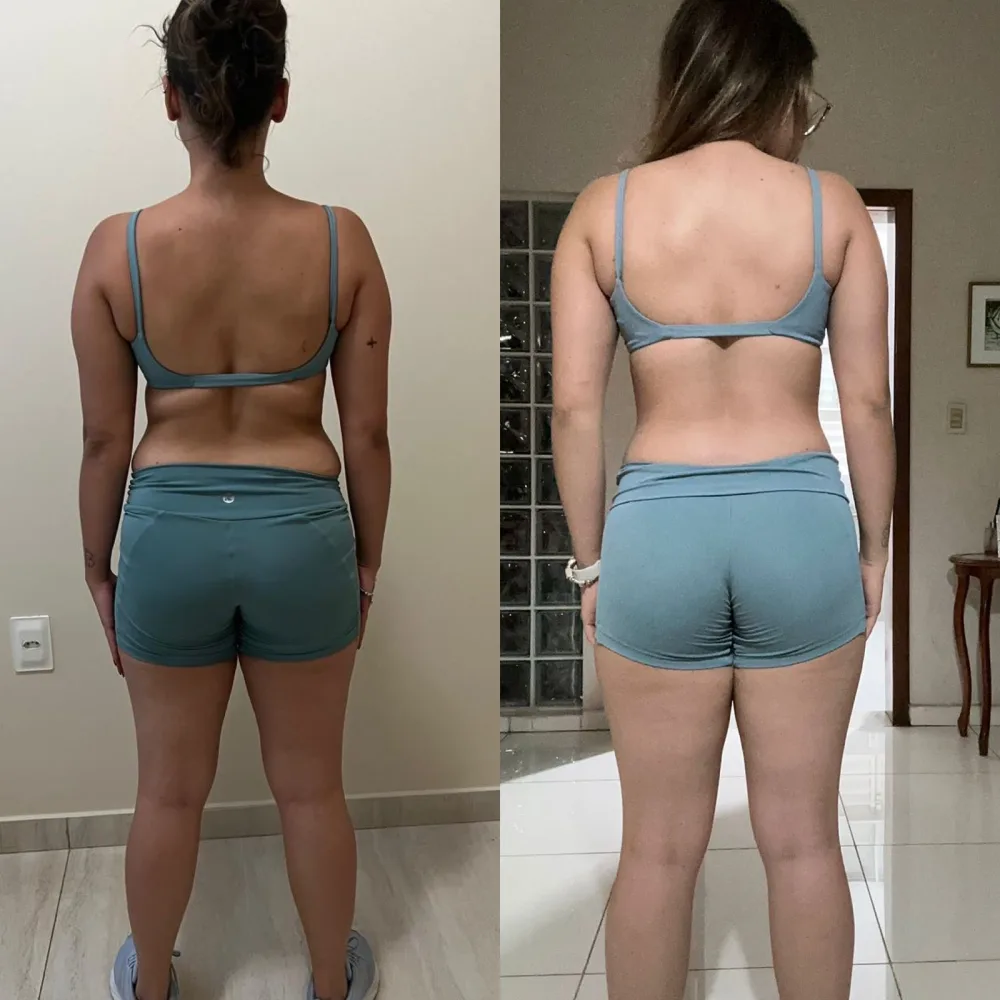
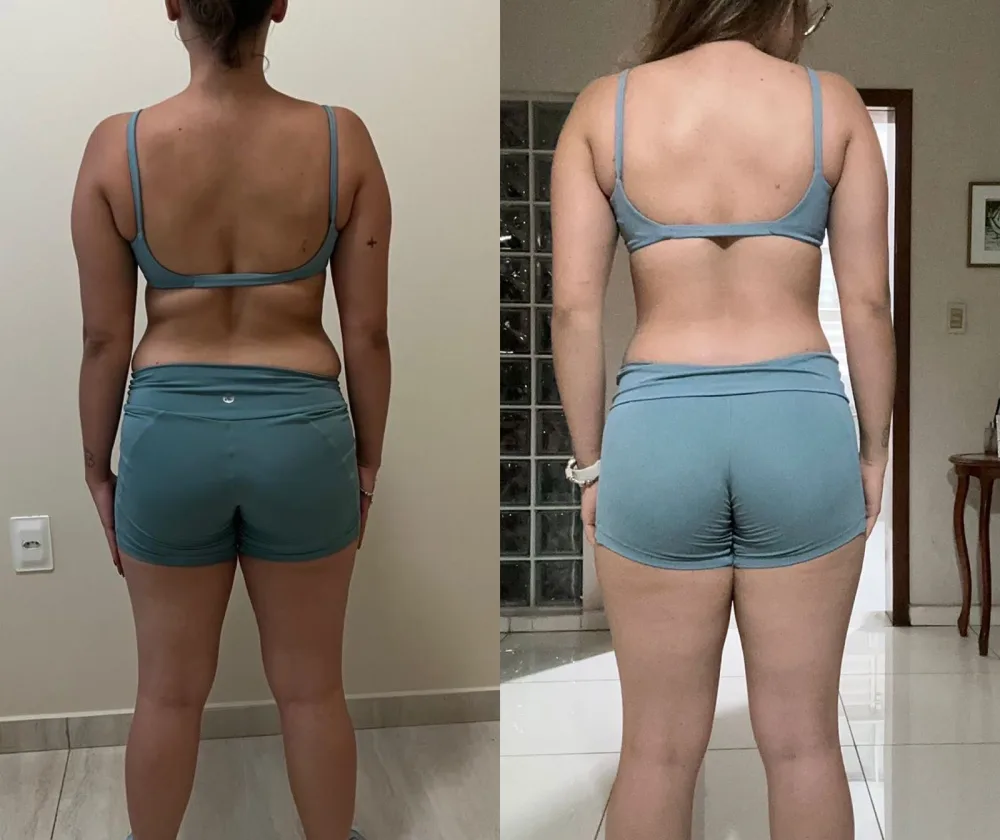
fix(prova): reenquadre das fotos, corpo legível e foto de frente do GL
Três observações do GL na primeira leitura da página.

FOTOS DESALINHADAS: os cards estavam geometricamente alinhados (medido:
mesma altura, mesma posição). O que não batia eram os CORPOS dentro dos
quadros — na foto da Maria eles preenchem a moldura, na outra sobrava
chão e parede, então as pessoas apareciam em escalas diferentes.
Reenquadrei as três fotos da mesma aluna cortando o excesso.

TIPOGRAFIA ILEGÍVEL: a história estava em C.textSub (#A0A0A0), que é o
token de RÓTULO. História de aluna é corpo de leitura, e a regra do
próprio GL SYSTEM diz 'cinza só em rótulo'. Criado o token textRead
(#DADADA) e o corpo subiu de 16 para 17px com entrelinha maior.

FOTO DE VERDE: trocada pela de frente, com olhar na câmera, na seção
'como funciona'.

diff --git a/src/PaginaComercial.jsx b/src/PaginaComercial.jsx
@@ -263,7 +263,12 @@ function Prova({ onComecar }) {
                 </strong>
               )}
               {p.historia && (
-                <p style={{ ...TYPE.body, color: C.textSub, marginTop: SP[8] }}>{p.historia}</p>
+                <p style={{
+                  ...TYPE.body, fontSize: 17, lineHeight: 1.65,
+                  color: C.textRead, marginTop: SP[12],
+                }}>
+                  {p.historia}
+                </p>
               )}
               {p.angulos && (
                 <div style={{ marginTop: SP[16] }}>
@@ -436,14 +441,14 @@ function Metodo() {
             que continua depois da primeira semana.
           </p>
           <img
-            src="/prova/gl-escritorio.webp"
-            alt="Gabriel Lincoln trabalhando no escritório da GL Consultoria"
+            src="/prova/gl-frente.webp"
+            alt="Gabriel Lincoln, responsável pela GL Consultoria"
             loading="lazy"
             style={{
               // Proporção travada: o arquivo é retrato alto (1100x1956) e, solto,
               // esticava a coluna da esquerda muito além dos três passos —
               // sobrava um vazio enorme à direita.
-              width: "100%", aspectRatio: "4 / 5", objectFit: "cover", objectPosition: "center 30%",
+              width: "100%", aspectRatio: "4 / 5", objectFit: "cover", objectPosition: "center 20%",
               marginTop: SP[32], display: "block",
               borderRadius: BR.lg, border: `1px solid ${C.border}`,
             }}

diff --git a/src/design.js b/src/design.js
@@ -17,7 +17,12 @@
 const C = {
   bg:"#0A0A0A", surface:"#111111", deep:"#14060A",
   red:"#E10A1F", redDark:"#B00818", redGlow:"rgba(225,10,31,0.15)",
-  text:"#FFFFFF", textSub:"#A0A0A0", textMuted:"#666666",
+  text:"#FFFFFF",
+  /* textRead: corpo de LEITURA. O textSub (#A0A0A0) nasceu para rótulo e
+     legenda; usado em parágrafo longo sobre near-black, o GL reclamou que não
+     dava para ler bem. Regra do GL SYSTEM: cinza só em rótulo. */
+  textRead:"#DADADA",
+  textSub:"#A0A0A0", textMuted:"#666666",
   border:"#1E1E1E", borderHover:"#333333",
 };
 const TYPE = {
